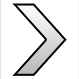
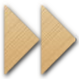
Added back button to revert tiles if needed. Changed texture on next turn button. Cleaned up code. More values into constants.py

diff --git a/Renderer.py b/Renderer.py
@@ -1,6 +1,5 @@
 from constants import *
 from Managers import TextureManager
-from Entities import Arrow
 import pygame
 
 
@@ -9,13 +8,13 @@ class Renderer:
     def __init__(self, board, screen):
         self.screen = screen
         self.texture_manager = TextureManager()
-        self.arrow = Arrow()
         self.board = board
+        self.arrow, self.back_arrow = board.arrow, board.back_arrow
         self.player = self.board.player
 
     def render(self):
         self.render_score()
-        self.render_arrow()
+        self.render_arrows()
         self.render_tiles()
         self.render_player_tiles()
 
@@ -41,11 +40,11 @@ class Renderer:
                 self.screen.blit(tile_texture, (x, y))
                 self.player.tiles[i].rect = pygame.Rect(x, y, TILE_SIZE, TILE_SIZE)
 
-    def render_arrow(self):
-        x, y = 8*81 + 6, 9*83 + 65
-        arrow_texture = self.texture_manager.get_arrow_texture()
-        self.screen.blit(arrow_texture, (x, y))
-        self.arrow.set_rect(x, y)
+    def render_arrows(self):
+        arrow_texture = self.texture_manager.get_arrow_texture(ARROW_SIZE)
+        back_arrow_texture = self.texture_manager.get_back_arrow_texture(BACK_ARROW_SIZE)
+        self.screen.blit(back_arrow_texture, (BACK_ARROW_X, BACK_ARROW_Y))
+        self.screen.blit(arrow_texture, (ARROW_X, ARROW_Y))
 
     def render_score(self):
         font = pygame.font.SysFont(FONT, FONT_SIZE)

diff --git a/Managers.py b/Managers.py
@@ -53,7 +53,7 @@ class WordManager:
 class TextureManager:
 
     def __init__(self):
-        self.full_texture = pygame.image.load(TEXTURE_NAME)
+        self.full_texture = pygame.image.load(TILE_TEXTURE)
         self.texture_cache = dict()  # Cache for loaded textures
         time.sleep(2)
 
@@ -70,9 +70,16 @@ class TextureManager:
     def get_arrow_texture(self, size=79):
         if ('arrow', size) not in self.texture_cache.keys():
             self.texture_cache[('arrow', size)] = pygame.image.load("arrow.png").convert_alpha()
-            if size != 79:
+            if size != ARROW_SIZE:
                 self.texture_cache[('arrow', size)] = pygame.transform.scale(self.texture_cache[('arrow', size)], (size, size))
         return self.texture_cache[('arrow', size)]
+
+    def get_back_arrow_texture(self, size=55):
+        if ('back_arrow', size) not in self.texture_cache.keys():
+            self.texture_cache[('back_arrow', size)] = pygame.image.load("backarrow.png").convert_alpha()
+            if size != BACK_ARROW_SIZE:
+                self.texture_cache[('back_arrow', size)] = pygame.transform.scale(self.texture_cache[('back_arrow', size)], (size, size))
+        return self.texture_cache[('back_arrow', size)]
 
     def get_coordinates(self, letter):
         letter_coordinates = LETTER_LOCATIONS[letter]

diff --git a/Entities.py b/Entities.py
@@ -24,8 +24,7 @@ class Tile(pygame.sprite.Sprite):
             return old_letter
 
         def reset(self):
-            self.x = self.starting_x
-            self.y = self.starting_y
+            self.x, self.y = self.starting_x, self.starting_y
             self.being_dragged = False
 
 
@@ -33,8 +32,13 @@ class Arrow(pygame.sprite.Sprite):
 
     def __init__(self, size=79):
         super().__init__()
-        self.rect, self.x, self.y, self.size = None, None, None, size
+        self.x, self.y = ARROW_X, ARROW_Y
+        self.rect = pygame.Rect(self.x, self.y, size, size)
 
-    def set_rect(self, x, y):
-        self.x, self.y = x, y
-        self.rect = pygame.Rect(x, y, self.size, self.size)
+
+class BackArrow(pygame.sprite.Sprite):
+
+    def __init__(self, size=79):
+        super().__init__()
+        self.x, self.y = BACK_ARROW_X, BACK_ARROW_Y
+        self.rect = pygame.Rect(self.x, self.y, size, size)

diff --git a/Board.py b/Board.py
@@ -1,5 +1,8 @@
-from Managers import *
-from LetterGenerator import *
+from Managers import WordManager
+from LetterGenerator import LetterGenerator
+from Entities import Tile, Arrow, BackArrow
+from constants import *
+import pygame
 
 
 class Board:
@@ -8,6 +11,7 @@ class Board:
         self.player = player
         self.letter_generator = LetterGenerator()
         self.word_manager = WordManager()
+        self.arrow, self.back_arrow = Arrow(), BackArrow()
         self.tiles = self.create_tiles()
         self.frame_count = 0
         self.words_list = set()

diff --git a/constants.py b/constants.py
@@ -1,6 +1,6 @@
 SCREEN_WIDTH = 740
 SCREEN_HEIGHT = 910
-TEXTURE_NAME = "letters.png"
+TILE_TEXTURE = "letters.png"
 BACKGROUND_IMAGE = "background.png"
 
 STARTING_RANDOMS = 8
@@ -23,3 +23,8 @@ LETTER_LOCATIONS = {'A': "2,2", 'B': "83,2", 'C': "164,2", 'D': "245,2", 'E': "3
 FONT = "times_new_roman"
 FONT_SIZE = 24
 
+ARROW_SIZE = 79
+ARROW_X, ARROW_Y = 8 * 81 + 6, 9 * 83 + 65
+
+BACK_ARROW_SIZE = 55
+BACK_ARROW_X, BACK_ARROW_Y = 8 * 81 + 22, 3

diff --git a/Main.py b/Main.py
@@ -63,6 +63,9 @@ class Main:
                             self.check_turn(changed_tiles)
                             changed_tiles = list()
                             self.turn += 1
+                        elif self.render_engine.back_arrow.rect.collidepoint(x, y):
+                            self.board.revert(changed_tiles)
+                            changed_tiles = list()
             self.run()
 
     def run(self):
